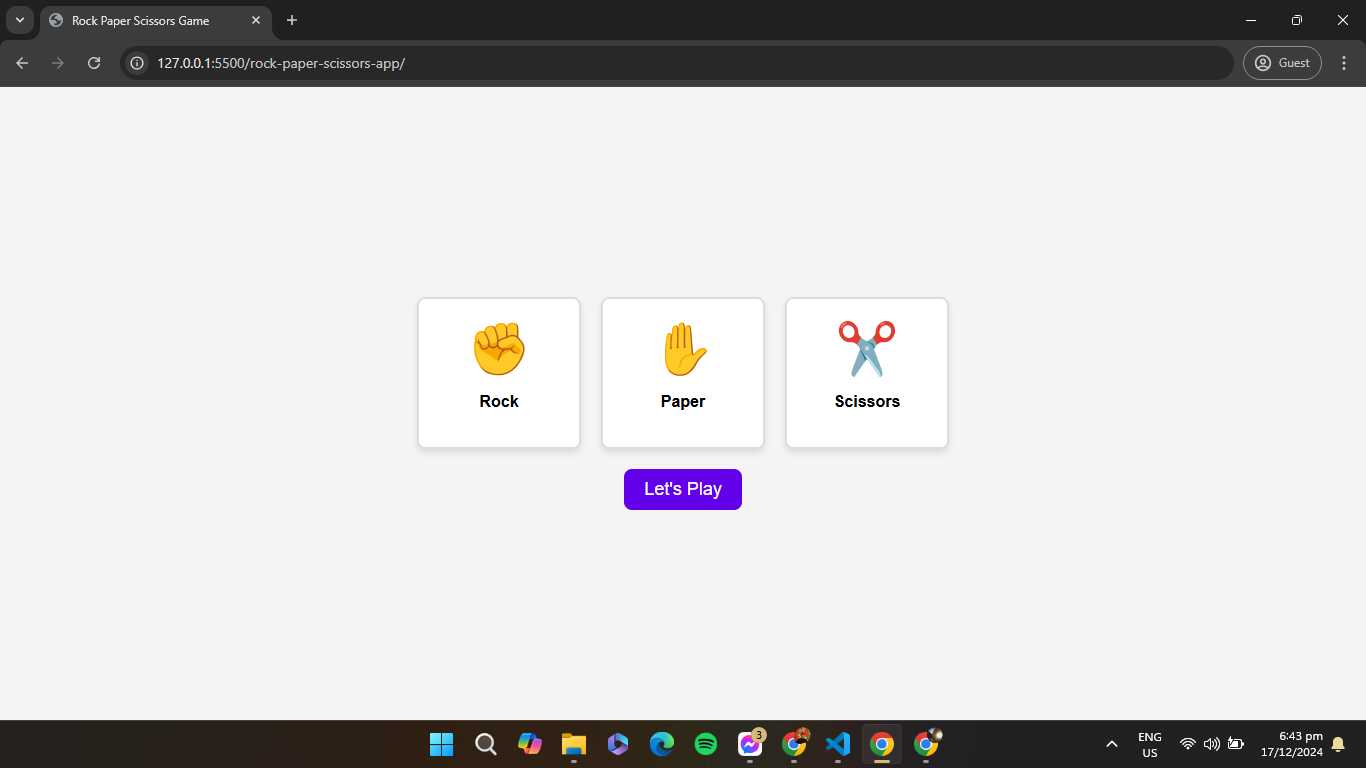
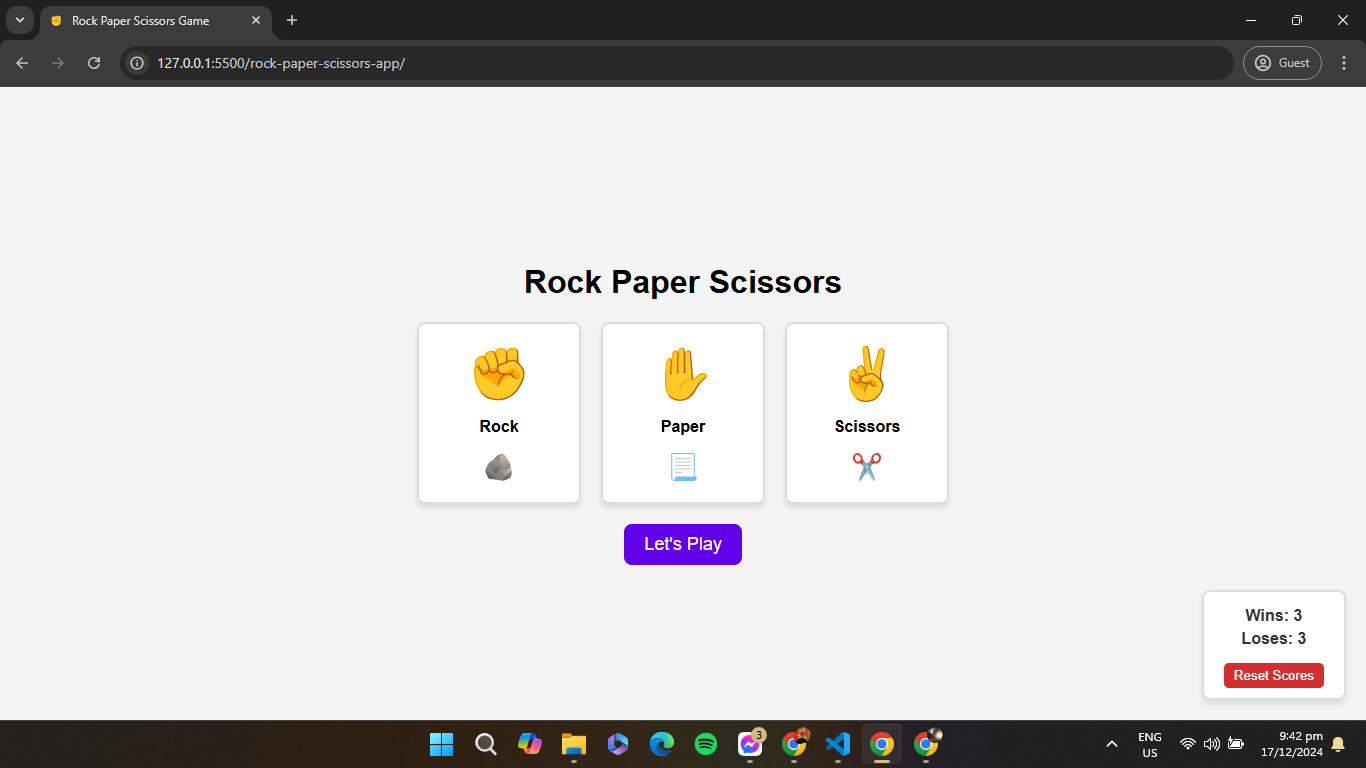
updated rock,paper,scissors ✊

diff --git a/rock-paper-scissors-app/script.js b/rock-paper-scissors-app/script.js
@@ -1,5 +1,7 @@
 let userChoice = '';
 let computerChoice = '';
+let winCounter = 0; 
+let loseCounter = 0; 
 
 const cards = document.querySelectorAll('.card');
 const playButton = document.getElementById('playButton');
@@ -8,11 +10,16 @@ const resultMessage = document.getElementById('resultMessage');
 const computerChoiceText = document.getElementById('computerChoice');
 const computerChoiceIcon = document.getElementById('computerChoiceIcon');
 const closeModalBtn = document.getElementById('closeModalBtn');
+const winCountDisplay = document.getElementById('winCount');
+const loseCountDisplay = document.getElementById('loseCount');
+const resetButton = document.getElementById('resetScores');
+const warningModal = document.getElementById('warningModal');
+const closeWarningModalBtn = document.getElementById('closeWarningModalBtn');
 
 cards.forEach(card => {
     card.addEventListener('click', () => {
-        cards.forEach(c => c.classList.remove('selected'));
-        card.classList.add('selected');
+        cards.forEach(c => c.classList.remove('selected')); 
+        card.classList.add('selected'); 
         userChoice = card.getAttribute('data-choice');
     });
 });
@@ -22,35 +29,47 @@ function getComputerChoice() {
     return choices[Math.floor(Math.random() * choices.length)];
 }
 
+function determineResult(user, computer) {
+    if (user === computer) return "It's a tie!";
+    if (
+        (user === 'rock' && computer === 'scissors') ||
+        (user === 'paper' && computer === 'rock') ||
+        (user === 'scissors' && computer === 'paper')
+    ) {
+        winCounter++;
+        winCountDisplay.textContent = winCounter;
+        return 'You win!';
+    } else {
+        loseCounter++;
+        loseCountDisplay.textContent = loseCounter;
+        return 'You lose!';
+    }
+}
+
 playButton.addEventListener('click', () => {
     if (!userChoice) {
-        alert('Please select Rock, Paper, or Scissors!');
+        warningModal.style.display = 'flex';
         return;
     }
 
     computerChoice = getComputerChoice();
+    const result = determineResult(userChoice, computerChoice);
 
-    let result;
-    if (userChoice === computerChoice) {
-        result = "It's a tie!";
-    } else if (
-        (userChoice === 'rock' && computerChoice === 'scissors') ||
-        (userChoice === 'paper' && computerChoice === 'rock') ||
-        (userChoice === 'scissors' && computerChoice === 'paper')
-    ) {
-        result = "You win!";
-    } else {
-        result = "You lose!";
-    }
-
-    const icons = {
-        rock: "https://images.emojiterra.com/google/noto-emoji/unicode-16.0/color/svg/270a.svg",
-        paper: "https://images.emojiterra.com/google/noto-emoji/unicode-16.0/color/svg/270b.svg",
-        scissors: "https://images.emojiterra.com/google/noto-emoji/unicode-16.0/color/svg/2702.svg"
+    const emojiChoices = {
+        rock: "🪨", 
+        paper: "📄", 
+        scissors: "✂" 
     };
 
     resultMessage.textContent = result;
-    computerChoiceText.textContent = `Computer chose: ${computerChoice}`;
+    computerChoiceText.innerHTML = `Computer chose: ${computerChoice} ${emojiChoices[computerChoice]}`;
+    
+    const icons = {
+        rock: "https://images.emojiterra.com/google/noto-emoji/unicode-16.0/color/svg/270a.svg",
+        paper: "https://images.emojiterra.com/google/noto-emoji/unicode-16.0/color/svg/270b.svg",
+        scissors: "https://images.emojiterra.com/google/noto-emoji/unicode-16.0/color/svg/270c.svg"
+    };
+    
     computerChoiceIcon.src = icons[computerChoice];
 
     resultModal.style.display = 'flex';
@@ -61,15 +80,27 @@ closeModalBtn.addEventListener('click', () => {
     resetGame();
 });
 
+closeWarningModalBtn.addEventListener('click', () => {
+    warningModal.style.display = 'none';
+});
+
 function resetGame() {
     userChoice = '';
-    computerChoice = '';
     cards.forEach(c => c.classList.remove('selected'));
 }
+
+resetButton.addEventListener('click', () => {
+    winCounter = 0;
+    loseCounter = 0;
+    winCountDisplay.textContent = 0;
+    loseCountDisplay.textContent = 0;
+});
 
 window.addEventListener('click', (e) => {
     if (e.target === resultModal) {
         resultModal.style.display = 'none';
         resetGame();
+    } else if (e.target === warningModal) {
+        warningModal.style.display = 'none';
     }
 });

diff --git a/rock-paper-scissors-app/style.css b/rock-paper-scissors-app/style.css
@@ -12,6 +12,16 @@ body {
     text-align: center;
 }
 
+#warningModal .modal-content {
+    background-color: #ffcccc;
+    padding: 20px;
+    border-radius: 8px;
+    text-align: center;
+    width: 300px;
+    box-shadow: 0 4px 8px rgba(0, 0, 0, 0.2);
+}
+
+
 .card-container {
     display: flex;
     justify-content: center;
@@ -49,7 +59,33 @@ body {
     box-shadow: 0 4px 10px rgba(98, 0, 234, 0.5);
 }
 
-/* Button */
+.icon {
+    display: inline-block;
+    width: 30px; 
+    height: 30px;
+    background-size: cover;
+    background-repeat: no-repeat;
+    vertical-align: middle; 
+}
+
+.rock-icon {
+    background-image: url('https://images.emojiterra.com/google/noto-emoji/unicode-16.0/color/svg/1faa8.svg');
+}
+
+.paper-icon {
+    background-image: url('https://images.emojiterra.com/google/noto-emoji/unicode-16.0/color/svg/1f4c3.svg');
+}
+
+.scissors-icon {
+    background-image: url('https://images.emojiterra.com/google/noto-emoji/unicode-16.0/color/svg/2702.svg');
+}
+
+.warning-icon {
+    background-image: url('https://images.emojiterra.com/google/noto-emoji/unicode-16.0/color/svg/26a0.svg');
+}
+
+
+
 .play-btn {
     background-color: #6200ea;
     color: white;
@@ -105,4 +141,38 @@ body {
     margin-top: 10px;
     width: 80px;
     height: 80px;
+}
+
+.score-container {
+    position: fixed;
+    bottom: 20px;
+    right: 20px;
+    background-color: #ffffff;
+    padding: 10px 20px;
+    border: 2px solid #ddd;
+    border-radius: 8px;
+    box-shadow: 0 4px 6px rgba(0, 0, 0, 0.1);
+    text-align: center;
+    font-size: 16px;
+    font-weight: bold;
+    color: #333;
+}
+
+.score-container p {
+    margin: 5px 0;
+}
+
+.reset-btn {
+    margin-top: 10px;
+    background-color: #d32f2f;
+    color: white;
+    border: none;
+    padding: 5px 10px;
+    border-radius: 5px;
+    cursor: pointer;
+    transition: background-color 0.3s ease;
+}
+
+.reset-btn:hover {
+    background-color: #b71c1c;
 }

diff --git a/rock-paper-scissors-app/index.html b/rock-paper-scissors-app/index.html
@@ -9,20 +9,35 @@
     <link rel="stylesheet" href="style.css">
 </head>
 <body>
-
+    
     <div class="game-container">
+
+        <h1>Rock Paper Scissors</h1>
+
+        <div id="warningModal" class="modal">
+            <div class="modal-content">
+                <i class="icon warning-icon"></i>
+                <span class="close-btn" id="closeWarningModalBtn">&times;</span>
+                <h3>Please select Rock, Paper, or Scissors!</h3>
+            </div>
+        </div>
+
+
         <div class="card-container">
             <div class="card" id="rockCard" data-choice="rock">
                 <img src="https://images.emojiterra.com/google/noto-emoji/unicode-16.0/color/svg/270a.svg" alt="Rock">
                 <p>Rock</p>
+                <i class="icon rock-icon"></i>
             </div>
             <div class="card" id="paperCard" data-choice="paper">
                 <img src="https://images.emojiterra.com/google/noto-emoji/unicode-16.0/color/svg/270b.svg" alt="Paper">
                 <p>Paper</p>
+                <i class="icon paper-icon"></i>
             </div>
             <div class="card" id="scissorsCard" data-choice="scissors">
-                <img src="https://images.emojiterra.com/google/noto-emoji/unicode-16.0/color/svg/2702.svg" alt="Scissors">
+                <img src="https://images.emojiterra.com/google/noto-emoji/unicode-16.0/color/svg/270c.svg" alt="Scissors">
                 <p>Scissors</p>
+                <i class="icon scissors-icon"></i>
             </div>
         </div>
 
@@ -38,6 +53,11 @@
         </div>
     </div>
 
+    <div class="score-container">
+        <p>Wins: <span id="winCount">0</span></p>
+        <p>Loses: <span id="loseCount">0</span></p>
+        <button id="resetScores" class="reset-btn">Reset Scores</button>
+    </div>
     <script src="script.js"></script>
 </body>
 </html>
